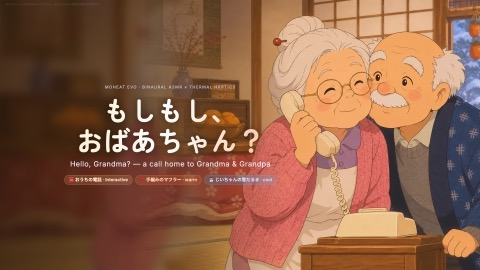
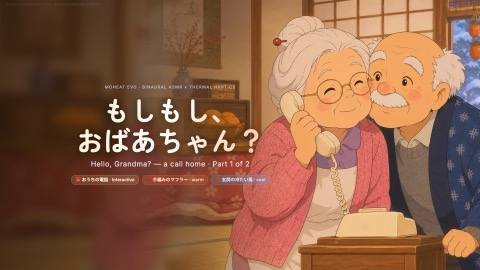
Family call split into two episodes of the same call (the user found it too long): Part 1 Demo15_FamilyCall "もしもし、おばあちゃん？" (call, grandpa grabs the phone, parcel, front door = left cool, grandma's scarf = both warm; ends "open my blue box!" - to be continued, link to Part 2; 2:46) and Part 2 Demo16_

Changed region(s): [[0.125, 0.6519, 0.5938, 0.6815], [0.125, 0.5926, 0.5625, 0.6222]]

diff --git a/demos/Demo16_FamilyCall2/index.html b/demos/Demo16_FamilyCall2/index.html
@@ -1,0 +1,108 @@
+<!doctype html>
+<html lang="ja">
+<head>
+  <base href="../Demo15_FamilyCall/">
+  <meta charset="utf-8" />
+  <meta name="viewport" content="width=device-width, initial-scale=1" />
+  <meta name="theme-color" content="#2a1d14" />
+  <meta name="robots" content="noindex" />
+  <meta property="og:title" content="Grandpa's Little Snowman · MoHeat Evo ASMR Demo" />
+  <meta property="og:image" content="../Demo16_FamilyCall2/media/cover.jpg" />
+  <title>じいちゃんの、ゆきだるま · Grandpa's Little Snowman (Part 2) · MoHeat Evo ASMR Demo</title>
+  <link rel="preconnect" href="https://fonts.googleapis.com">
+  <link rel="preconnect" href="https://fonts.gstatic.com" crossorigin>
+  <link href="https://fonts.googleapis.com/css2?family=Inter:wght@400;500;600;700;800&family=Noto+Sans+JP:wght@400;500;700&family=Zen+Maru+Gothic:wght@500;700&family=JetBrains+Mono:wght@400;600&display=swap" rel="stylesheet">
+  <link rel="stylesheet" href="../Demo10_CaveSpring/demo.css?v=1" />
+  <link rel="stylesheet" href="../Demo12_LateCall/call.css?v=1" />
+  <link rel="stylesheet" href="family.css?v=3" />
+  <link rel="stylesheet" href="../shared/series.css?v=3" />
+  <script>if (/[?&]embed\b/.test(location.search)) document.documentElement.classList.add('embed');</script>
+  <style>/* ?embed=1 — used by the site's demo menu: stage only */
+    html.embed .bar, html.embed .side { display: none !important; }
+    html.embed body { background: #000; overflow: hidden; }
+    html.embed .layout { display: block; padding: 0; max-width: none; }
+    html.embed .stage { border-radius: 0; border: 0; box-shadow: none; }
+    html.embed .intro .hint { display: none; }
+  </style>
+</head>
+<body data-part="2">
+  <header class="bar">
+    <a class="brand" href="../../">MoHeat <span>Evo</span> <em>ASMR Game · A call home, part 2</em></a>
+    <div class="device">
+      <select id="portSelect" aria-label="Serial port"></select>
+      <button class="btn sm" id="addPort" type="button" title="Authorize a USB or Bluetooth serial port">+ Add</button>
+      <button class="btn sm primary" id="connectBtn" type="button" disabled>Connect</button>
+      <p class="status" id="deviceStatus"><i></i><span>Not connected</span></p>
+    </div>
+    <button class="estop" id="estop" type="button" title="Esc">■ STOP</button>
+  </header>
+
+  <main class="layout">
+    <section class="stage-col">
+      <div class="stage" id="stage">
+        <canvas id="scene" width="1920" height="1080"></canvas>
+        <i class="glow l" id="glowL"></i><i class="glow r" id="glowR"></i>
+        <div class="call-pill" id="callPill"></div>
+        <div class="hud-top"><button class="hud-btn" id="soundBtn" type="button">🔊</button></div>
+
+        <div class="incoming dialer" id="dialer">
+          <div class="avatar"></div>
+          <small>★ お気に入り · Favourites</small>
+          <b>おばあちゃんち</b><span>Grandma &amp; Grandpa · 🏡 home phone</span>
+          <button id="callBtn" type="button">📞 かける · Call</button>
+        </div>
+        <div class="choices" id="choices"></div>
+        <div class="act" id="act"></div>
+        <div class="mic-gate" id="micGate"><p class="say"><b></b><span></span></p><span class="mic" id="micBars"></span><button type="button"></button></div>
+        <div class="subs" id="subs"><p class="line"><span class="ja" id="subJa"></span><span class="en" id="subEn"></span></p></div>
+        <p class="vv">おばあちゃん VOICEVOX:もち子さん · おじいちゃん VOICEVOX:ちび式じい</p>
+
+        <div class="intro" id="intro">
+          <div class="hero a" aria-hidden="true"></div>
+          <div class="cover-copy">
+            <p class="kicker">MoHeat Evo · Binaural ASMR × Thermal Haptics</p>
+            <h1><span>じいちゃんの、</span><span>ゆきだるま</span></h1>
+            <p class="en">Grandpa's Little Snowman — a call home · Part 2 of 2</p>
+            <p class="cast"><span class="chip p">☎ おうちの電話 · Interactive</span><span class="chip k">⛄ じいちゃんの雪だるま · cool</span><span class="chip h">🧣 ばあばのマフラー · warm</span></p>
+            <p class="cleared" id="cleared" hidden></p>
+            <div class="intro-actions">
+              <button class="btn primary big" id="startBtn" type="button">▶ はじめる · Start</button>
+              <button class="btn" id="lrBtn" type="button">🎧 Left / Right check</button>
+            </div>
+            <p class="hint">Headphones on · mic optional (answer them with your voice, or tap) · connect MoHeat Evo to feel the scarf and the snowman</p>
+            <p class="draft" id="credits">Hana &amp; Gen are original characters · voices VOICEVOX:もち子さん, VOICEVOX:ちび式じい · art made with Seedance</p>
+          </div>
+        </div>
+      </div>
+    </section>
+
+    <aside class="side">
+      <div class="card"><div class="card-head"><span>Sounds around you</span><b id="posInfo"></b></div><canvas id="radar" width="480" height="420"></canvas></div>
+      <div class="card">
+        <div class="card-head"><span>Thermal output</span><b id="cmd" class="mono">stop</b></div>
+        <div class="meters">
+          <div class="meter-row"><span>L cool</span><div class="m cool"><i id="mLc"></i></div><b id="vLc">0</b></div>
+          <div class="meter-row"><span>L warm</span><div class="m heat"><i id="mLh"></i></div><b id="vLh">0</b></div>
+          <div class="meter-row"><span>R cool</span><div class="m cool"><i id="mRc"></i></div><b id="vRc">0</b></div>
+          <div class="meter-row"><span>R warm</span><div class="m heat"><i id="mRh"></i></div><b id="vRh">0</b></div>
+        </div>
+        <p class="note">Live: the scarf warms both sides; the snowman cools your right cheek; the phone warms the ear it is pressed to. One mode per ear.</p>
+      </div>
+      <div class="card"><div class="card-head"><span>Progress</span><b id="clock" class="mono">0:00</b></div><ol class="steps" id="steps"></ol></div>
+      <div class="card">
+        <label class="row"><span>Intensity</span><input id="intensity" type="range" min="0" max="100" value="100" /><b id="intensityVal">100%</b></label>
+        <label class="row check"><input id="sendOn" type="checkbox" checked /> <span>Send to device</span></label>
+        <label class="row check"><input id="micOn" type="checkbox" checked /> <span>Use the microphone to answer (level only, nothing recorded)</span></label>
+      </div>
+    </aside>
+  </main>
+
+  <script src="../../device.js?v=1"></script>
+  <script src="lines.js?v=1"></script>
+  <script src="media/art/patches.js?v=1"></script>
+  <script src="audio.js?v=1"></script>
+  <script src="media/voice.js?v=1"></script>
+  <script src="game.js?v=4"></script>
+  <script src="../shared/nav.js?v=5"></script>
+</body>
+</html>

diff --git a/demos/Demo15_FamilyCall/game.js b/demos/Demo15_FamilyCall/game.js
@@ -27,10 +27,15 @@
   const fresh = () => ({ started: false, done: false, t: 0, clock: 0, callT: 0, inCall: false, ear: 0, speaker: false, view: 'room',
     doorCold: 0, scarf: 0, scarfOn: false, snow: 0, snowOn: false, who: '', step: 0, fade: 0, lv: 0, gift: false });
   let S = fresh(), run = 0;
-  const STEPS = [
+  // two episodes of the same call: part 1 (call → grandpa → parcel → scarf) and part 2 (snowman → New Year → nobody hangs up).
+  // Part 2's page (demos/Demo16_FamilyCall2/) sets <body data-part="2"> and <base href="../Demo15_FamilyCall/">, so all files are shared.
+  const PART = +(document.body.dataset.part || QS.get('part') || 1);
+  const STEPS = PART === 2 ? [
+    ['snowman', 'じいちゃんの雪だるま', "Grandpa's snowman"], ['phone', '受話器を耳に', 'Phone back to your ear'],
+    ['newyear', 'お正月の約束', 'A New Year promise'], ['bye', 'なかなか切れない', 'Nobody hangs up'],
+  ] : [
     ['call', 'おばあちゃんちに電話', 'Call home'], ['hello', 'おばあちゃんが出た', 'Grandma answers'], ['gp', 'おじいちゃんも', 'Grandpa too'],
-    ['parcel', '荷物が届いた', 'A parcel arrives'], ['gifts', 'マフラーと雪だるま', 'A scarf and a snowman'], ['newyear', 'お正月の約束', 'A New Year promise'],
-    ['bye', 'なかなか切れない', "Nobody hangs up"],
+    ['parcel', '荷物が届いた', 'A parcel arrives'], ['scarf', 'ばあばのマフラー', "Grandma's scarf"],
   ];
   function setStep(i) { S.step = i; $('steps').innerHTML = STEPS.map((s, k) => `<li class="${k < i ? 'done' : k === i ? 'now' : ''}">${s[1]} · <small>${s[2]}</small></li>`).join(''); }
 
@@ -102,6 +107,7 @@
     const my = ++run;
     const L = -1.45, R = 1.45;
     try {
+      if (PART === 2) return await part2(my, L, R);
       // your flat on a winter evening; their number is in your favourites
       S.view = 'room'; setStep(0); SND.loop('heater', -.3, 2.4)?.set(.035); SND.loop('room', 0, 3)?.set(.04);
       await sleep(.8);
@@ -152,8 +158,20 @@
       await sleep(1.2); await say('g11');
       await speak('「あったかい！」って言ってみて', 'Tell her "It\'s so warm!"', '🧣 あったかい！', "It's so warm!");
       await say('g12');
+      // to be continued: grandpa wants you to open his blue box
+      S.view = 'box'; await say('p05'); await sleep(.6);
+      await caption('⛄ つづく — 第2話「じいちゃんの、ゆきだるま」', "To be continued — Part 2: Grandpa's Little Snowman", 3);
+      S.fade = 1; await sleep(2.6); finish();
+    } catch (e) { if (e.message !== 'stopped') console.error(e); }
+  }
+  async function part2(my, L, R) {
+    try {
+      // the same call, a minute later: they are on speaker on your table, grandma's scarf is round your neck, the parcel is open
+      S.view = 'box'; setStep(0); SND.loop('heater', -.3, 2.4)?.set(.035); SND.loop('room', 0, 3)?.set(.04);
+      S.inCall = true; SND.phoneOn(L); SND.phoneSpeaker(); S.speaker = true; S.ear = 0; S.scarfOn = true; SND.loop('home')?.set(.25);
+      await caption('🧣 ばあばのマフラーを巻いたまま、電話はスピーカーで…', "Still wrapped in Grandma's scarf, the call on speaker…", 2.6);
       // grandpa's refrigerated snowman: right cheek cool, the scarf keeps the left warm
-      S.view = 'box'; await say('p05');
+      await say('p05');
       await action('🧊', '青い箱をあける', 'Open the blue box', { x0: 900, x1: 1920, y0: 200, y1: 1080 });
       SND.fx.cooler(.1); S.view = 'cooler'; await sleep(1.4);
       S.view = 'snow'; await say('p06'); await say('g13');
@@ -165,16 +183,16 @@
       await say('p09');
       // phone back to your ear (the snowman goes back in its box)
       S.snowOn = false; SND.fx.cooler(.1);
-      S.view = 'duo'; await say('g14');
+      setStep(1); S.view = 'duo'; await say('g14');
       await action('📱', '受話器を耳にあてる', 'Hold the phone to your ear');
       SND.fx.beep(); SND.fx.rustle(L, .3); SND.phoneEar(L); S.speaker = false; S.ear = -1;
-      setStep(5); await sleep(.4);
+      setStep(2); await sleep(.4);
       await say('p10');
       const ny = await choice([['帰るよ！', "I'll come home!"], ['…まだわからない', "…I'm not sure yet"]]);
       if (!ny) { await say('g15a'); await say('p11a'); } else await say('g15b');
       await say('g16'); await say('p12');
       // nobody wants to hang up first
-      setStep(6);
+      setStep(3);
       await say('g17'); await say('p13'); await sleep(1.6);
       await say('g18'); await say('p14'); await say('g19');
       await speak('「またね、大好きだよ」って言ってみて', 'Say "See you soon, love you"', '💗 またね、大好き', 'See you, love you');
@@ -356,7 +374,9 @@
     S.done = true; S.started = false; run++; stopOutput(); SND.phoneOff();
     for (const k of ['room', 'heater', 'home']) SND.loop(k)?.stop();
     sub('', ''); $('callPill').classList.remove('show'); $('dialer').classList.remove('show');
-    const c = $('cleared'); c.hidden = false; c.textContent = '💗 また電話してね · Call them again soon';
+    const c = $('cleared'); c.hidden = false;
+    if (PART === 2) c.textContent = '💗 また電話してね · Call them again soon';
+    else c.innerHTML = '⛄ つづく · To be continued → <a href="../Demo16_FamilyCall2/">第2話「じいちゃんの、ゆきだるま」 · Part 2</a>';
     $('startBtn').textContent = '↺ もう一度 · Play again'; $('intro').classList.remove('hidden');
   }
   function start() {
@@ -371,7 +391,7 @@
   $('soundBtn').addEventListener('click', (e) => { SND.setMuted(!SND.isMuted()); e.target.textContent = SND.isMuted() ? '🔇' : '🔊'; });
   let coverCv = null;
   function drawCover() {   // the couple moved to the right half (title on the left): blurred copy behind, sharp copy with a feathered left edge
-    const im = IMG.duo_call; if (!im) { drawFallback('duo', S.t); return; }
+    const im = PART === 2 ? IMG.duo_bye : IMG.duo_call; if (!im) { drawFallback('duo', S.t); return; }
     if (!coverCv) {
       coverCv = document.createElement('canvas'); coverCv.width = W; coverCv.height = H; const c = coverCv.getContext('2d');
       c.filter = 'blur(18px) brightness(.8)'; c.drawImage(im, -60, -60, W + 120, H + 120); c.filter = 'none';

diff --git a/demos/Demo15_FamilyCall/index.html b/demos/Demo15_FamilyCall/index.html
@@ -7,13 +7,13 @@
   <meta name="robots" content="noindex" />
   <meta property="og:title" content="Hello, Grandma? · MoHeat Evo ASMR Demo" />
   <meta property="og:image" content="media/cover.jpg" />
-  <title>もしもし、おばあちゃん？ · Hello, Grandma? · MoHeat Evo ASMR Demo</title>
+  <title>もしもし、おばあちゃん？ · Hello, Grandma? (Part 1) · MoHeat Evo ASMR Demo</title>
   <link rel="preconnect" href="https://fonts.googleapis.com">
   <link rel="preconnect" href="https://fonts.gstatic.com" crossorigin>
   <link href="https://fonts.googleapis.com/css2?family=Inter:wght@400;500;600;700;800&family=Noto+Sans+JP:wght@400;500;700&family=Zen+Maru+Gothic:wght@500;700&family=JetBrains+Mono:wght@400;600&display=swap" rel="stylesheet">
   <link rel="stylesheet" href="../Demo10_CaveSpring/demo.css?v=1" />
   <link rel="stylesheet" href="../Demo12_LateCall/call.css?v=1" />
-  <link rel="stylesheet" href="family.css?v=2" />
+  <link rel="stylesheet" href="family.css?v=3" />
   <link rel="stylesheet" href="../shared/series.css?v=3" />
   <script>if (/[?&]embed\b/.test(location.search)) document.documentElement.classList.add('embed');</script>
   <style>/* ?embed=1 — used by the site's demo menu: stage only */
@@ -61,14 +61,14 @@
           <div class="cover-copy">
             <p class="kicker">MoHeat Evo · Binaural ASMR × Thermal Haptics</p>
             <h1><span>もしもし、</span><span>おばあちゃん？</span></h1>
-            <p class="en">Hello, Grandma? — a call home to Grandma &amp; Grandpa</p>
-            <p class="cast"><span class="chip p">☎ おうちの電話 · Interactive</span><span class="chip h">🧣 手編みのマフラー · warm</span><span class="chip k">⛄ じいちゃんの雪だるま · cool</span></p>
+            <p class="en">Hello, Grandma? — a call home · Part 1 of 2</p>
+            <p class="cast"><span class="chip p">☎ おうちの電話 · Interactive</span><span class="chip h">🧣 手編みのマフラー · warm</span><span class="chip k">🚪 玄関の冷たい風 · cool</span></p>
             <p class="cleared" id="cleared" hidden></p>
             <div class="intro-actions">
               <button class="btn primary big" id="startBtn" type="button">▶ はじめる · Start</button>
               <button class="btn" id="lrBtn" type="button">🎧 Left / Right check</button>
             </div>
-            <p class="hint">Headphones on · mic optional (answer them with your voice, or tap) · connect MoHeat Evo to feel the scarf and the snowman</p>
+            <p class="hint">Headphones on · mic optional (answer them with your voice, or tap) · connect MoHeat Evo to feel the phone, the front door and the scarf</p>
             <p class="draft" id="credits">Hana &amp; Gen are original characters · voices VOICEVOX:もち子さん, VOICEVOX:ちび式じい · art made with Seedance</p>
           </div>
         </div>
@@ -85,7 +85,7 @@
           <div class="meter-row"><span>R cool</span><div class="m cool"><i id="mRc"></i></div><b id="vRc">0</b></div>
           <div class="meter-row"><span>R warm</span><div class="m heat"><i id="mRh"></i></div><b id="vRh">0</b></div>
         </div>
-        <p class="note">Live: the phone warms the ear it is pressed to; the front door lets the cold in (left); the scarf warms both sides; the snowman cools your right cheek. One mode per ear.</p>
+        <p class="note">Live: the phone warms the ear it is pressed to; the front door lets the cold in (left); the scarf warms both sides. One mode per ear.</p>
       </div>
       <div class="card"><div class="card-head"><span>Progress</span><b id="clock" class="mono">0:00</b></div><ol class="steps" id="steps"></ol></div>
       <div class="card">
@@ -101,7 +101,7 @@
   <script src="media/art/patches.js?v=1"></script>
   <script src="audio.js?v=1"></script>
   <script src="media/voice.js?v=1"></script>
-  <script src="game.js?v=3"></script>
+  <script src="game.js?v=4"></script>
   <script src="../shared/nav.js?v=5"></script>
 </body>
 </html>

diff --git a/demos/shared/nav.js b/demos/shared/nav.js
@@ -10,7 +10,8 @@
     { dir: 'Demo11_Naomi', ja: 'ナオミと、ふわふわの一日', en: 'A Fluffy Day with Naomi', group: 0 },
     { dir: 'Demo12_LateCall', ja: 'もしもし、きこえる？', en: 'Can You Hear Me?', group: 0 },
     { dir: 'Demo13_NaomiCam', ja: 'ナオミ、いまなにしてる？', en: "What's Naomi Up To? · Pet Cam", group: 0 },
-    { dir: 'Demo15_FamilyCall', ja: 'もしもし、おばあちゃん？', en: 'Hello, Grandma? · A Call Home', group: 0 },
+    { dir: 'Demo15_FamilyCall', ja: 'もしもし、おばあちゃん？', en: 'Hello, Grandma? · A Call Home, Part 1', group: 0 },
+    { dir: 'Demo16_FamilyCall2', ja: 'じいちゃんの、ゆきだるま', en: "Grandpa's Little Snowman · A Call Home, Part 2", group: 0 },
     { dir: 'Demo5_GifuCastle', ja: '信長の岐阜城へようこそ', en: "Welcome to Nobunaga's Gifu Castle", group: 1, ep: 1 },
     { dir: 'Demo6_FutureWhisky', ja: '未来の酒と、安土の夜', en: 'Future Whisky at Azuchi', group: 1, ep: 2 },
     { dir: 'Demo7_KyotoIzakaya', ja: '信長と家康、京都の居酒屋へ', en: 'Two Warlords in a Kyoto Izakaya', group: 1, ep: 3 },

diff --git a/index.html b/index.html
@@ -119,7 +119,11 @@
             </button>
             <button class="td-item" type="button" data-demo="demos/Demo15_FamilyCall/">
               <img src="assets/images/demos/Demo15_FamilyCall.jpg" alt="" width="480" height="270" loading="lazy">
-              <span class="td-item-text"><em>family call · play it</em><b>Hello, Grandma? · A Call Home</b></span>
+              <span class="td-item-text"><em>family call · part 1</em><b>Hello, Grandma?</b></span>
+            </button>
+            <button class="td-item" type="button" data-demo="demos/Demo16_FamilyCall2/">
+              <img src="assets/images/demos/Demo16_FamilyCall2.jpg" alt="" width="480" height="270" loading="lazy">
+              <span class="td-item-text"><em>family call · part 2</em><b>Grandpa&#39;s Little Snowman</b></span>
             </button>
             <p class="td-group" data-name="Nobunaga series" data-unit="episodes">Nobunaga series</p>
             <button class="td-item" type="button" data-demo="demos/Demo5_GifuCastle/">

diff --git a/demos/Demo15_FamilyCall/family.css b/demos/Demo15_FamilyCall/family.css
@@ -27,3 +27,4 @@ body.cover-only .intro::before { background: linear-gradient(to right, rgba(40, 
 @keyframes nudge { 50% { box-shadow: 0 0 1.6cqw rgba(255, 190, 140, .6); } }
 .stage:has(.intro:not(.hidden)) .dialer { display: none !important; }
 .vv { top: .6cqw; left: 1.2cqw; right: auto; transform: none; text-align: left; }
+.intro .cleared a { color: #fff; font-weight: 700; text-decoration: underline; text-underline-offset: .2em; }

diff --git a/demos/Demo15_FamilyCall/README.md b/demos/Demo15_FamilyCall/README.md
@@ -1,4 +1,7 @@
-# もしもし、おばあちゃん？ · Hello, Grandma?
+# もしもし、おばあちゃん？ · Hello, Grandma? (Part 1 of 2)
+
+The call is split into two episodes (2026-11-08): Part 1 here (call → grandpa grabs the phone → parcel → front door → scarf, ends with "open my blue box!" — to be continued);
+Part 2 is [`../Demo16_FamilyCall2/`](../Demo16_FamilyCall2/) (snowman → phone back to your ear → New Year → nobody hangs up). One `game.js` runs both (`PART`, from `<body data-part>` or `?part=`).
 
 An interactive phone call home to **grandma Hana and grandpa Gen** (original characters) in their snowy countryside house.
 No timeline, no MP4: their lines are VOICEVOX files played live through a phone filter (at your ear, or on speaker on the table);

diff --git a/demos/Demo16_FamilyCall2/README.md b/demos/Demo16_FamilyCall2/README.md
@@ -1,0 +1,8 @@
+# じいちゃんの、ゆきだるま · Grandpa's Little Snowman (Part 2)
+
+Part 2 of the call home to grandma Hana and grandpa Gen (Part 1: [`../Demo15_FamilyCall/`](../Demo15_FamilyCall/)). The same call a minute later:
+they are on speaker on your table and grandma's scarf is round your neck (both ears warm). Grandpa's refrigerated mini snowman on your right cheek
+(right cool, left warm), the phone back to your ear, a New Year promise, and nobody wants to hang up first.
+
+This folder holds only the page and its cover: `index.html` sets `<base href="../Demo15_FamilyCall/">` and `<body data-part="2">`, so the code, art and
+voices are Part 1's files (one `game.js` runs either part). Details in Part 1's README.
